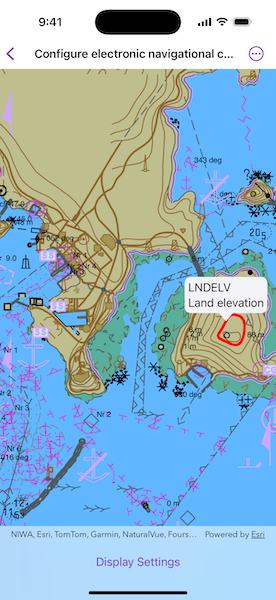
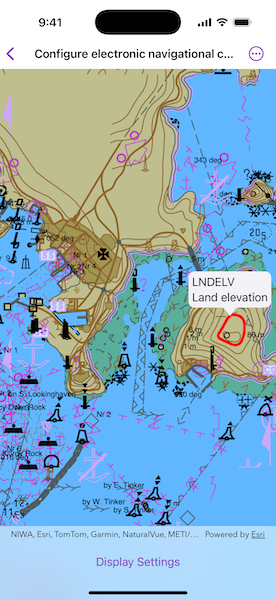
Fix "Point Symbolization Type" settings.

diff --git a/Shared/Samples/Configure electronic navigational charts/ConfigureElectronicNavigationalChartsView.swift b/Shared/Samples/Configure electronic navigational charts/ConfigureElectronicNavigationalChartsView.swift
@@ -173,8 +173,8 @@ private extension ConfigureElectronicNavigationalChartsView {
             textGroupVisibilitySettings.includesNatureOfSeabed = false
             
             let viewingGroupSettings = displaySettings.viewingGroupSettings
-            viewingGroupSettings.includesBuoysBeaconsAidsToNavigation = false
             viewingGroupSettings.includesDepthContours = false
+            viewingGroupSettings.includesLights = false
             viewingGroupSettings.includesSpotSoundings = false
         }
     }
